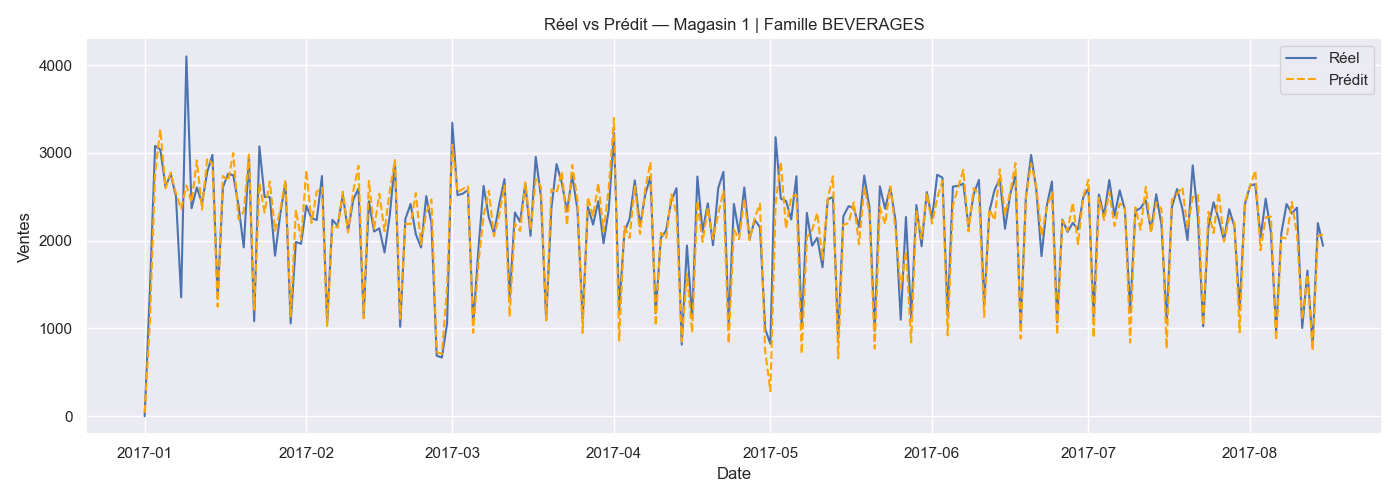
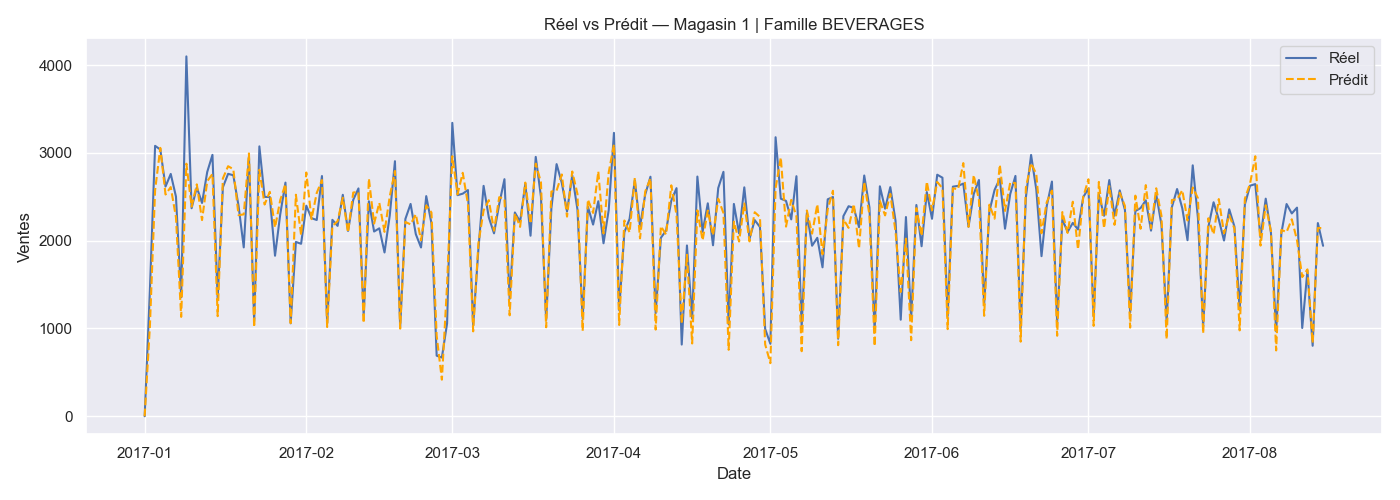
feat: Comparaison Random Forest vs XGBoost vs LightGBM

Changed region(s): [[0.0921, 0.27, 0.9521, 0.75], [0.8907, 0.33, 0.9214, 0.39], [0.3993, 0.48, 0.43, 0.51]]

diff --git a/src/compare_models.py b/src/compare_models.py
@@ -1,0 +1,128 @@
+import pandas as pd
+import numpy as np
+import matplotlib.pyplot as plt
+from sklearn.ensemble import RandomForestRegressor
+from sklearn.metrics import mean_absolute_error, mean_squared_error
+from xgboost import XGBRegressor
+from lightgbm import LGBMRegressor
+import time
+
+FEATURES = ["year", "month", "day", "dayofweek",
+            "store_nbr", "family_encoded", "is_holiday",
+            "city_encoded", "state_encoded", "type_encoded",
+            "cluster", "onpromotion",
+            "lag_1", "lag_7", "lag_30", "rolling_7", "rolling_30",
+            "family_avg_sales", "store_avg_sales", "trend_7",
+            "promo_ratio", "is_month_start", "is_month_end", "is_weekend"]
+
+TARGET = "sales"
+
+
+def get_models():
+    """
+    Retourne les 3 modèles à comparer avec leurs paramètres.
+    """
+    return {
+        "Random Forest": RandomForestRegressor(
+            n_estimators=50,
+            max_depth=15,
+            random_state=42,
+            n_jobs=-1
+        ),
+        "XGBoost": XGBRegressor(
+            n_estimators=300,
+            learning_rate=0.1,
+            max_depth=8,
+            subsample=0.8,
+            colsample_bytree=0.8,
+            min_child_weight=5,
+            gamma=0.1,
+            random_state=42,
+            n_jobs=-1,
+            verbosity=0
+        ),
+        "LightGBM": LGBMRegressor(
+            n_estimators=300,
+            learning_rate=0.1,
+            max_depth=8,
+            subsample=0.8,
+            colsample_bytree=0.8,
+            random_state=42,
+            n_jobs=-1,
+            verbose=-1
+        )
+    }
+
+
+def compare_models(df):
+    """
+    Entraîne et évalue chaque modèle, puis trace un graphique comparatif.
+    """
+    # Split train/test
+    train = df[df["year"] < 2017]
+    test  = df[df["year"] >= 2017]
+
+    # Échantillon d'entraînement
+    train_sample = train.sample(frac=0.55, random_state=42)
+    print(f"Échantillon : {len(train_sample)} lignes\n")
+
+    X_train = train_sample[FEATURES]
+    y_train = train_sample[TARGET]
+    X_test  = test[FEATURES]
+    y_test  = test[TARGET]
+
+    results = {}
+
+    for name, model in get_models().items():
+        print(f"Entraînement {name}...")
+
+        # On mesure le temps d'entraînement
+        start = time.time()
+        model.fit(X_train, y_train)
+        duration = time.time() - start
+
+        # Prédictions
+        preds = np.clip(model.predict(X_test), 0, None)
+
+        mae  = mean_absolute_error(y_test, preds)
+        rmse = np.sqrt(mean_squared_error(y_test, preds))
+
+        results[name] = {
+            "MAE": round(mae, 2),
+            "RMSE": round(rmse, 2),
+            "Temps (s)": round(duration, 1)
+        }
+
+        print(f"  MAE={mae:.2f} | RMSE={rmse:.2f} | Temps={duration:.1f}s\n")
+
+    # Affiche le tableau comparatif
+    results_df = pd.DataFrame(results).T
+    print("--- Comparaison finale ---")
+    print(results_df)
+
+    # Graphique comparatif
+    plot_comparison(results_df)
+
+    return results_df
+
+
+def plot_comparison(results_df, output_dir="outputs"):
+    """
+    Trace un graphique comparatif MAE et RMSE pour les 3 modèles.
+    """
+    fig, axes = plt.subplots(1, 2, figsize=(12, 5))
+
+    # MAE
+    axes[0].bar(results_df.index, results_df["MAE"], color=["#4C72B0", "#DD8452", "#55A868"])
+    axes[0].set_title("MAE par modèle (plus bas = meilleur)")
+    axes[0].set_ylabel("MAE")
+
+    # RMSE
+    axes[1].bar(results_df.index, results_df["RMSE"], color=["#4C72B0", "#DD8452", "#55A868"])
+    axes[1].set_title("RMSE par modèle (plus bas = meilleur)")
+    axes[1].set_ylabel("RMSE")
+
+    plt.tight_layout()
+    plt.savefig(f"{output_dir}/model_comparison.png")
+    plt.show()
+    print("Graphique sauvegardé : model_comparison.png")

diff --git a/main.py b/main.py
@@ -1,3 +1,4 @@
+"""
 from src.preprocessing import run_preprocessing
 from src.eda import run_eda
 from src.model import run_model
@@ -21,6 +22,35 @@ def main():
     # Etape 3 : Modélisation et prédiction
     print("\n[3/3] Modélisation...")
     model = run_model(df)
+
+    print("\n✅ Pipeline terminé ! Résultats dans outputs/")
+
+if __name__ == "__main__":
+    main()
+"""
+from src.preprocessing import run_preprocessing
+from src.eda import run_eda
+from src.model import run_model
+from src.compare_models import compare_models
+
+DATA_PATH = "data/train.csv"
+
+def main():
+    print("=" * 50)
+    print("   SUPPLY CHAIN DEMAND FORECASTING")
+    print("=" * 50)
+
+    print("\n[1/4] Preprocessing...")
+    df = run_preprocessing(DATA_PATH)
+
+    print("\n[2/4] Analyse exploratoire...")
+    run_eda(df)
+
+    print("\n[3/4] Modélisation XGBoost...")
+    model = run_model(df)
+
+    print("\n[4/4] Comparaison des modèles...")
+    compare_models(df)
 
     print("\n✅ Pipeline terminé ! Résultats dans outputs/")
 

diff --git a/src/model.py b/src/model.py
@@ -24,8 +24,8 @@ def split_train_test(df, test_year=2017):
 
 def train_model(train):
 
-    # On échantillonne 40% pour ne pas saturer la RAM
-    train_sample = train.sample(frac=0.4, random_state=42)
+    # On échantillonne 55% pour ne pas saturer la RAM
+    train_sample = train.sample(frac=0.55, random_state=42)
     print(f"Échantillon d'entraînement : {len(train_sample)} lignes")
 
     X_train = train_sample[FEATURES]
